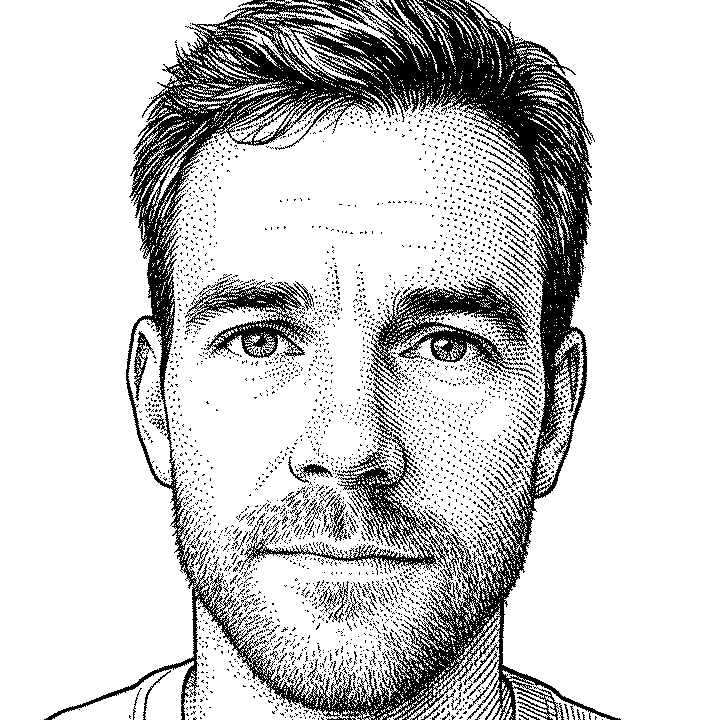
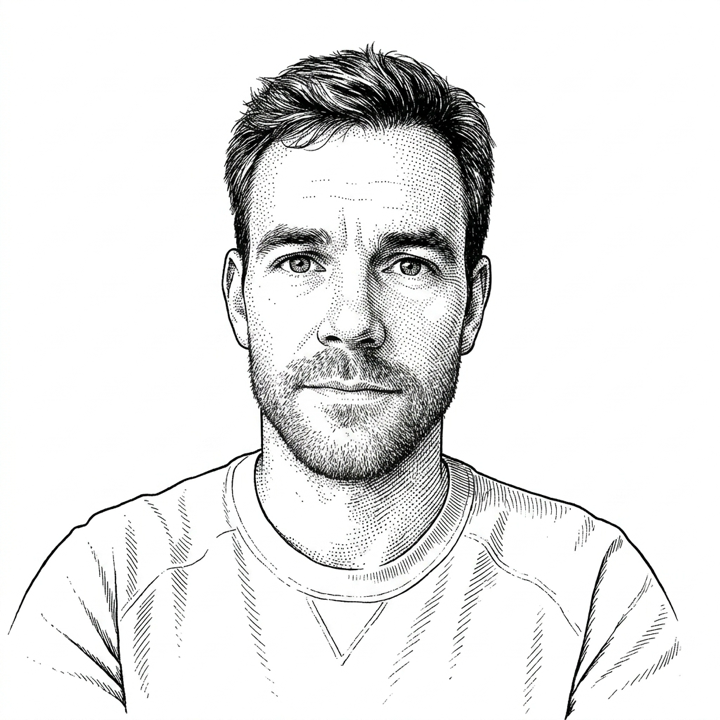
Replace cropped hedcut with scaled original portrait; rename LinkedIn CTA to Connect

diff --git a/site/index.html b/site/index.html
@@ -54,7 +54,7 @@
       <p class="lede">This site explains how the system works. Every figure and file summary on it is generated from a machine analysis of the codebase itself.</p>
       <div class="cta-row">
         <a class="btn primary" href="https://yuda.me" rel="noopener" target="_blank">Hire Valor</a>
-        <a class="btn" href="https://www.linkedin.com/in/valorengels" rel="me noopener" target="_blank">Message on LinkedIn</a>
+        <a class="btn" href="https://www.linkedin.com/in/valorengels" rel="me noopener" target="_blank">Connect on LinkedIn</a>
       </div>
       <div class="logo-row">
         <span class="cap">Built on</span>
@@ -182,7 +182,7 @@
   <div class="cta-row">
     <a class="btn primary" href="https://yuda.me" rel="noopener" target="_blank">Hire Valor through Yudame</a>
     <a class="btn" href="mailto:[email redacted]">[email redacted]</a>
-    <a class="btn" href="https://www.linkedin.com/in/valorengels" rel="me noopener" target="_blank">Message on LinkedIn</a>
+    <a class="btn" href="https://www.linkedin.com/in/valorengels" rel="me noopener" target="_blank">Connect on LinkedIn</a>
   </div>
 </section>
 

diff --git a/site/assets/site.css b/site/assets/site.css
@@ -711,7 +711,6 @@ footer.site .inner {
   display: block;
   width: 100%;
   height: auto;
-  padding: 26px 16% 0;
   background: #ffffff;
   border-bottom: 1px solid var(--hairline);
 }